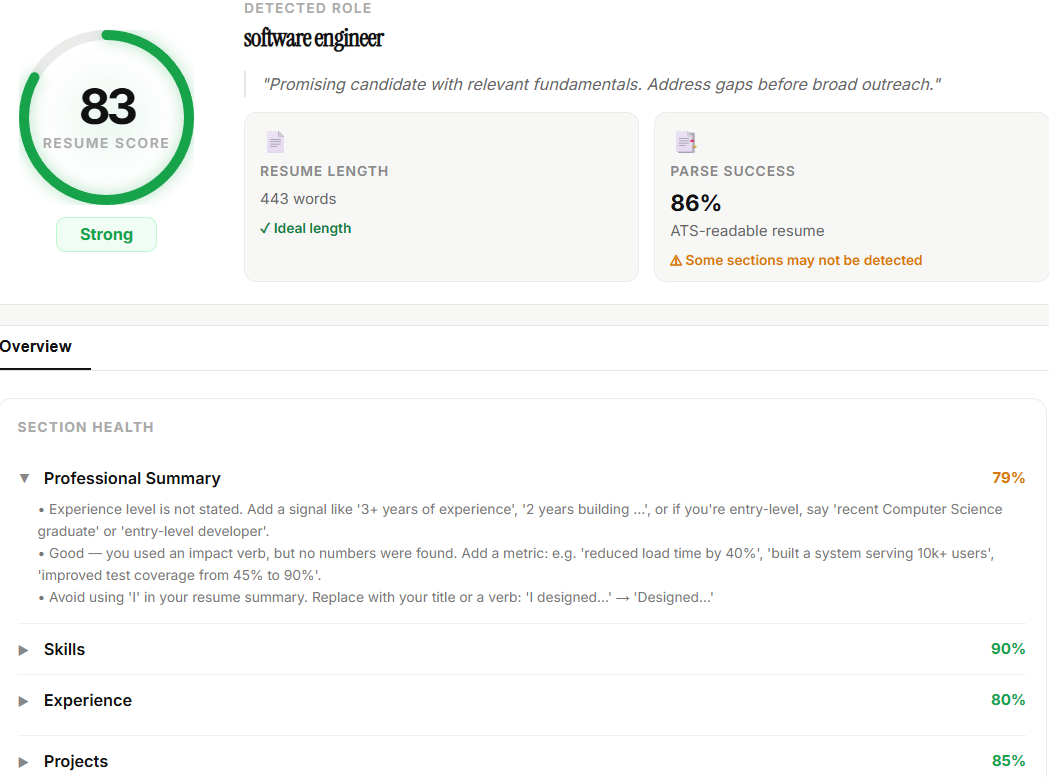
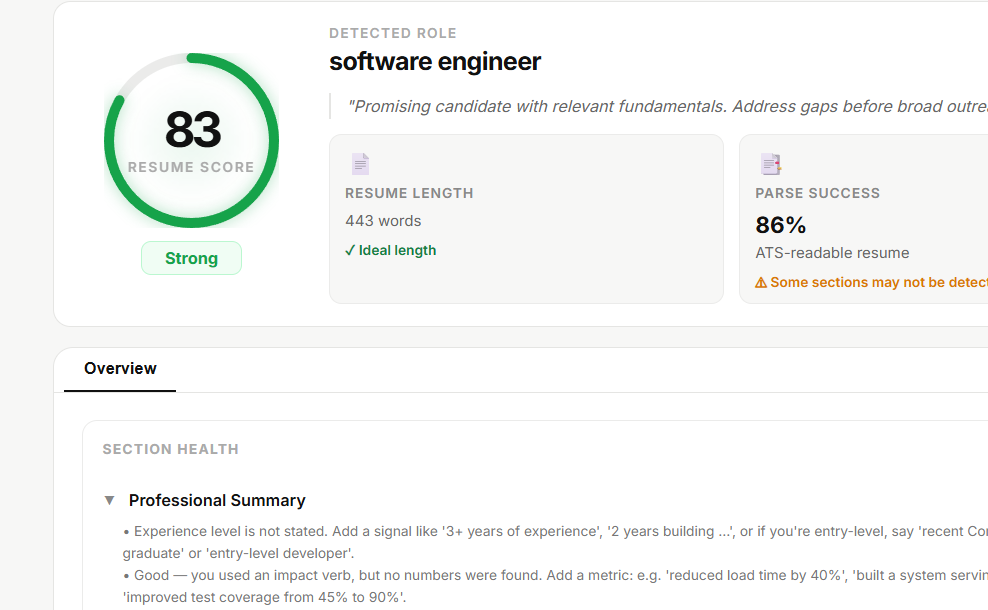
improved workflow

diff --git a/src/lib/roleDetector.ts b/src/lib/roleDetector.ts
@@ -19,7 +19,7 @@ const roleDatabase: Record<string, string[]> = {
     "react", "next.js", "node.js", "express", "mongodb",
     "postgresql", "full-stack", "fullstack", "api", "full stack",
   ],
-  "software engineer": [
+  "Software engineer": [
   "java",
   "python",
   "javascript",
@@ -89,7 +89,7 @@ const roleDatabase: Record<string, string[]> = {
   "serverless",
   "iam",
 ],
-"software engineer (backend/cloud)": [
+"Software engineer (backend/cloud)": [
   "java",
   "docker",
   "kubernetes",
@@ -154,7 +154,7 @@ const roleBoosts: Record<string, Record<string, number>> = {
 export function detectRole(resumeText: string): RoleDetectionResult {
   const text = resumeText.toLowerCase();
 
-  let bestRole = "software engineer";
+  let bestRole = "Software engineer";
   let bestScore = 0;
   let matchedKeywords: string[] = [];
 
@@ -187,7 +187,7 @@ if (normalizedScore > bestScore) {
     Math.round((bestScore / (keywordCount + maxBoost)) * 100)
   );
 if (confidence < 65) {
-  bestRole = "software engineer";
+  bestRole = "Software engineer";
 }
   return {
     role: bestRole,

diff --git a/src/app/page.tsx b/src/app/page.tsx
@@ -295,9 +295,10 @@ const handleResumeUpload = async (
       <div className="step-number">3</div>
 
       <div>
-        <h3>Get Insights</h3>
+        <h3>Improve & Stand Out
+</h3>
         <p>
-          Receive actionable improvements and recommendations.
+         Get clear recommendations to boost resume.
         </p>
       </div>
     </div>
@@ -323,7 +324,7 @@ const handleResumeUpload = async (
 
     <div className="workflow-image-card">
       <img
-        src="/score-preview.png"
+        src="/insight.png"
         alt="ATS Score"
       />
     </div>

diff --git a/src/components/AnalysisDashboard.tsx b/src/components/AnalysisDashboard.tsx
@@ -418,7 +418,7 @@ console.log("ATS CHECKLIST:", safeData.atsChecklist);
             <div>
               <div style={{ marginBottom: 14 }}>
                 <p style={{ fontSize: 11, color: "#AAA", fontWeight: 600, textTransform: "uppercase", letterSpacing: "0.09em", marginBottom: 4 }}>Detected Role</p>
-                <p style={{ fontSize: 20, fontWeight: 700, color: "#111", letterSpacing: "-0.5px", fontFamily: "'Instrument Serif', Georgia, serif" }}>{safeData.jobTitle}</p>
+                <p style={{ fontSize: 20, fontWeight: 700, color: "#111", letterSpacing: "-0.5px", fontFamily: "'Inter', sans-serif" }}>{safeData.jobTitle}</p>
               </div>
 
               <p style={{ fontSize: 13, color: "#666", lineHeight: 1.6, marginBottom: 12, fontStyle: "italic", borderLeft: "2px solid #E5E5E3", paddingLeft: 12 }}>